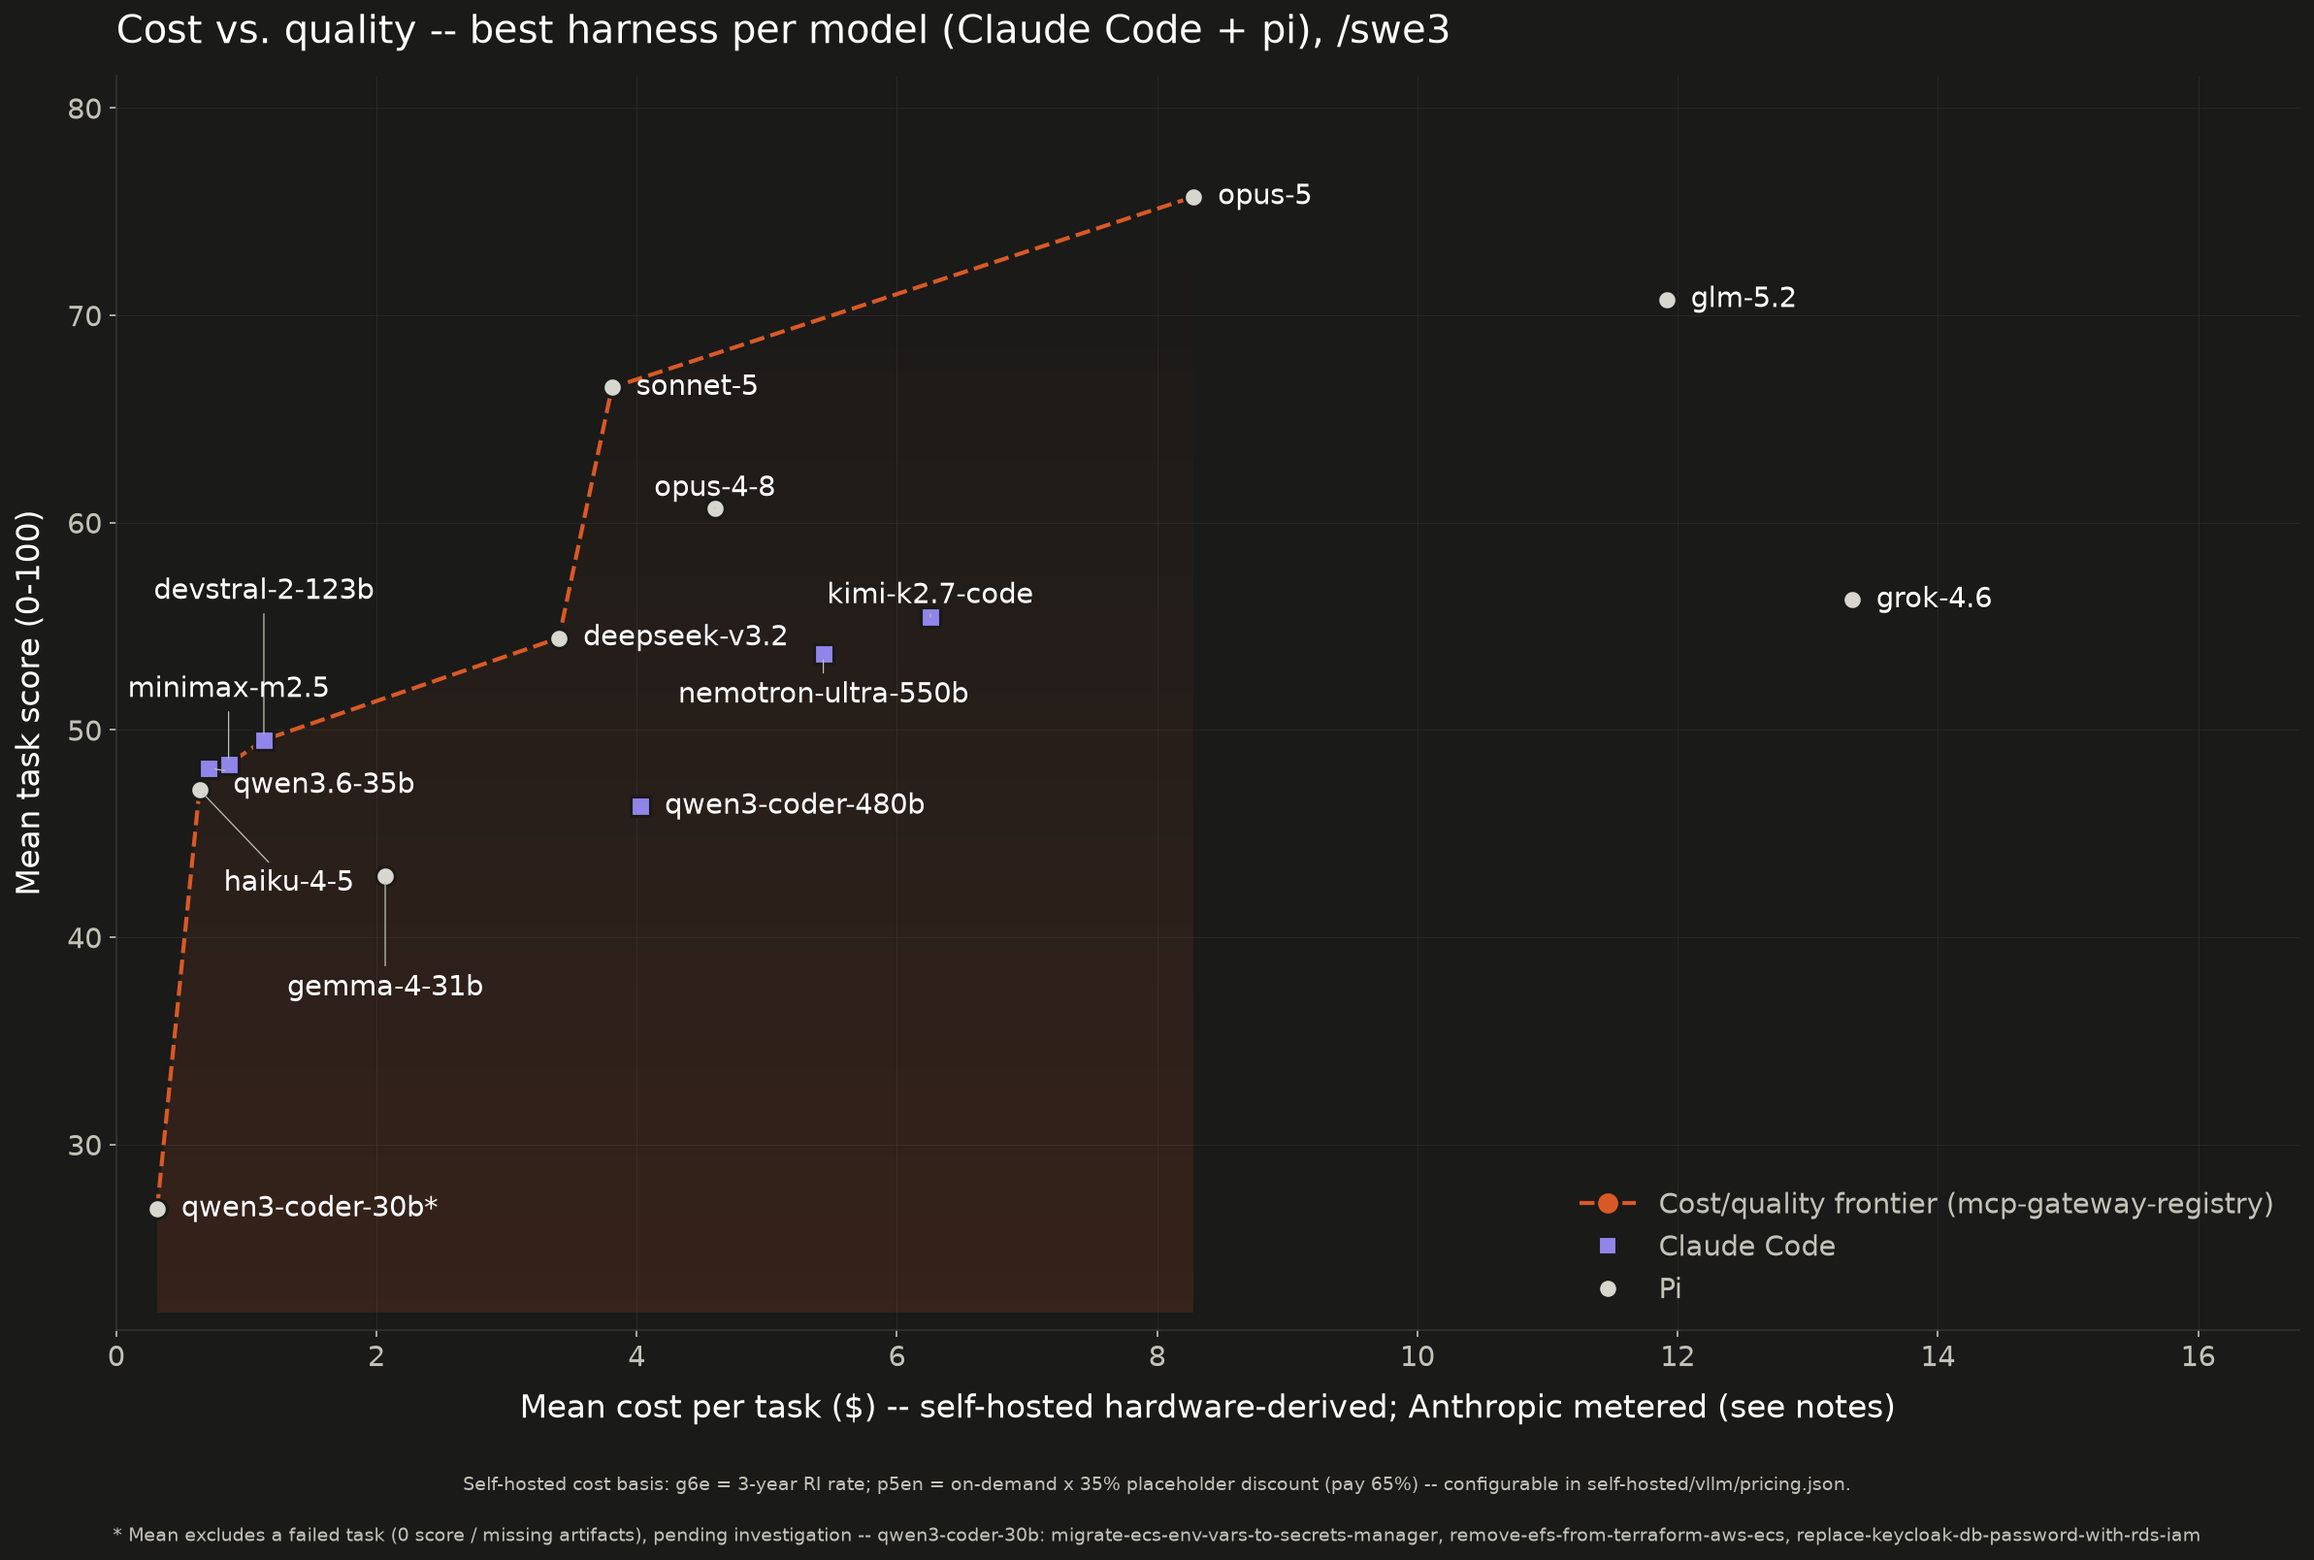
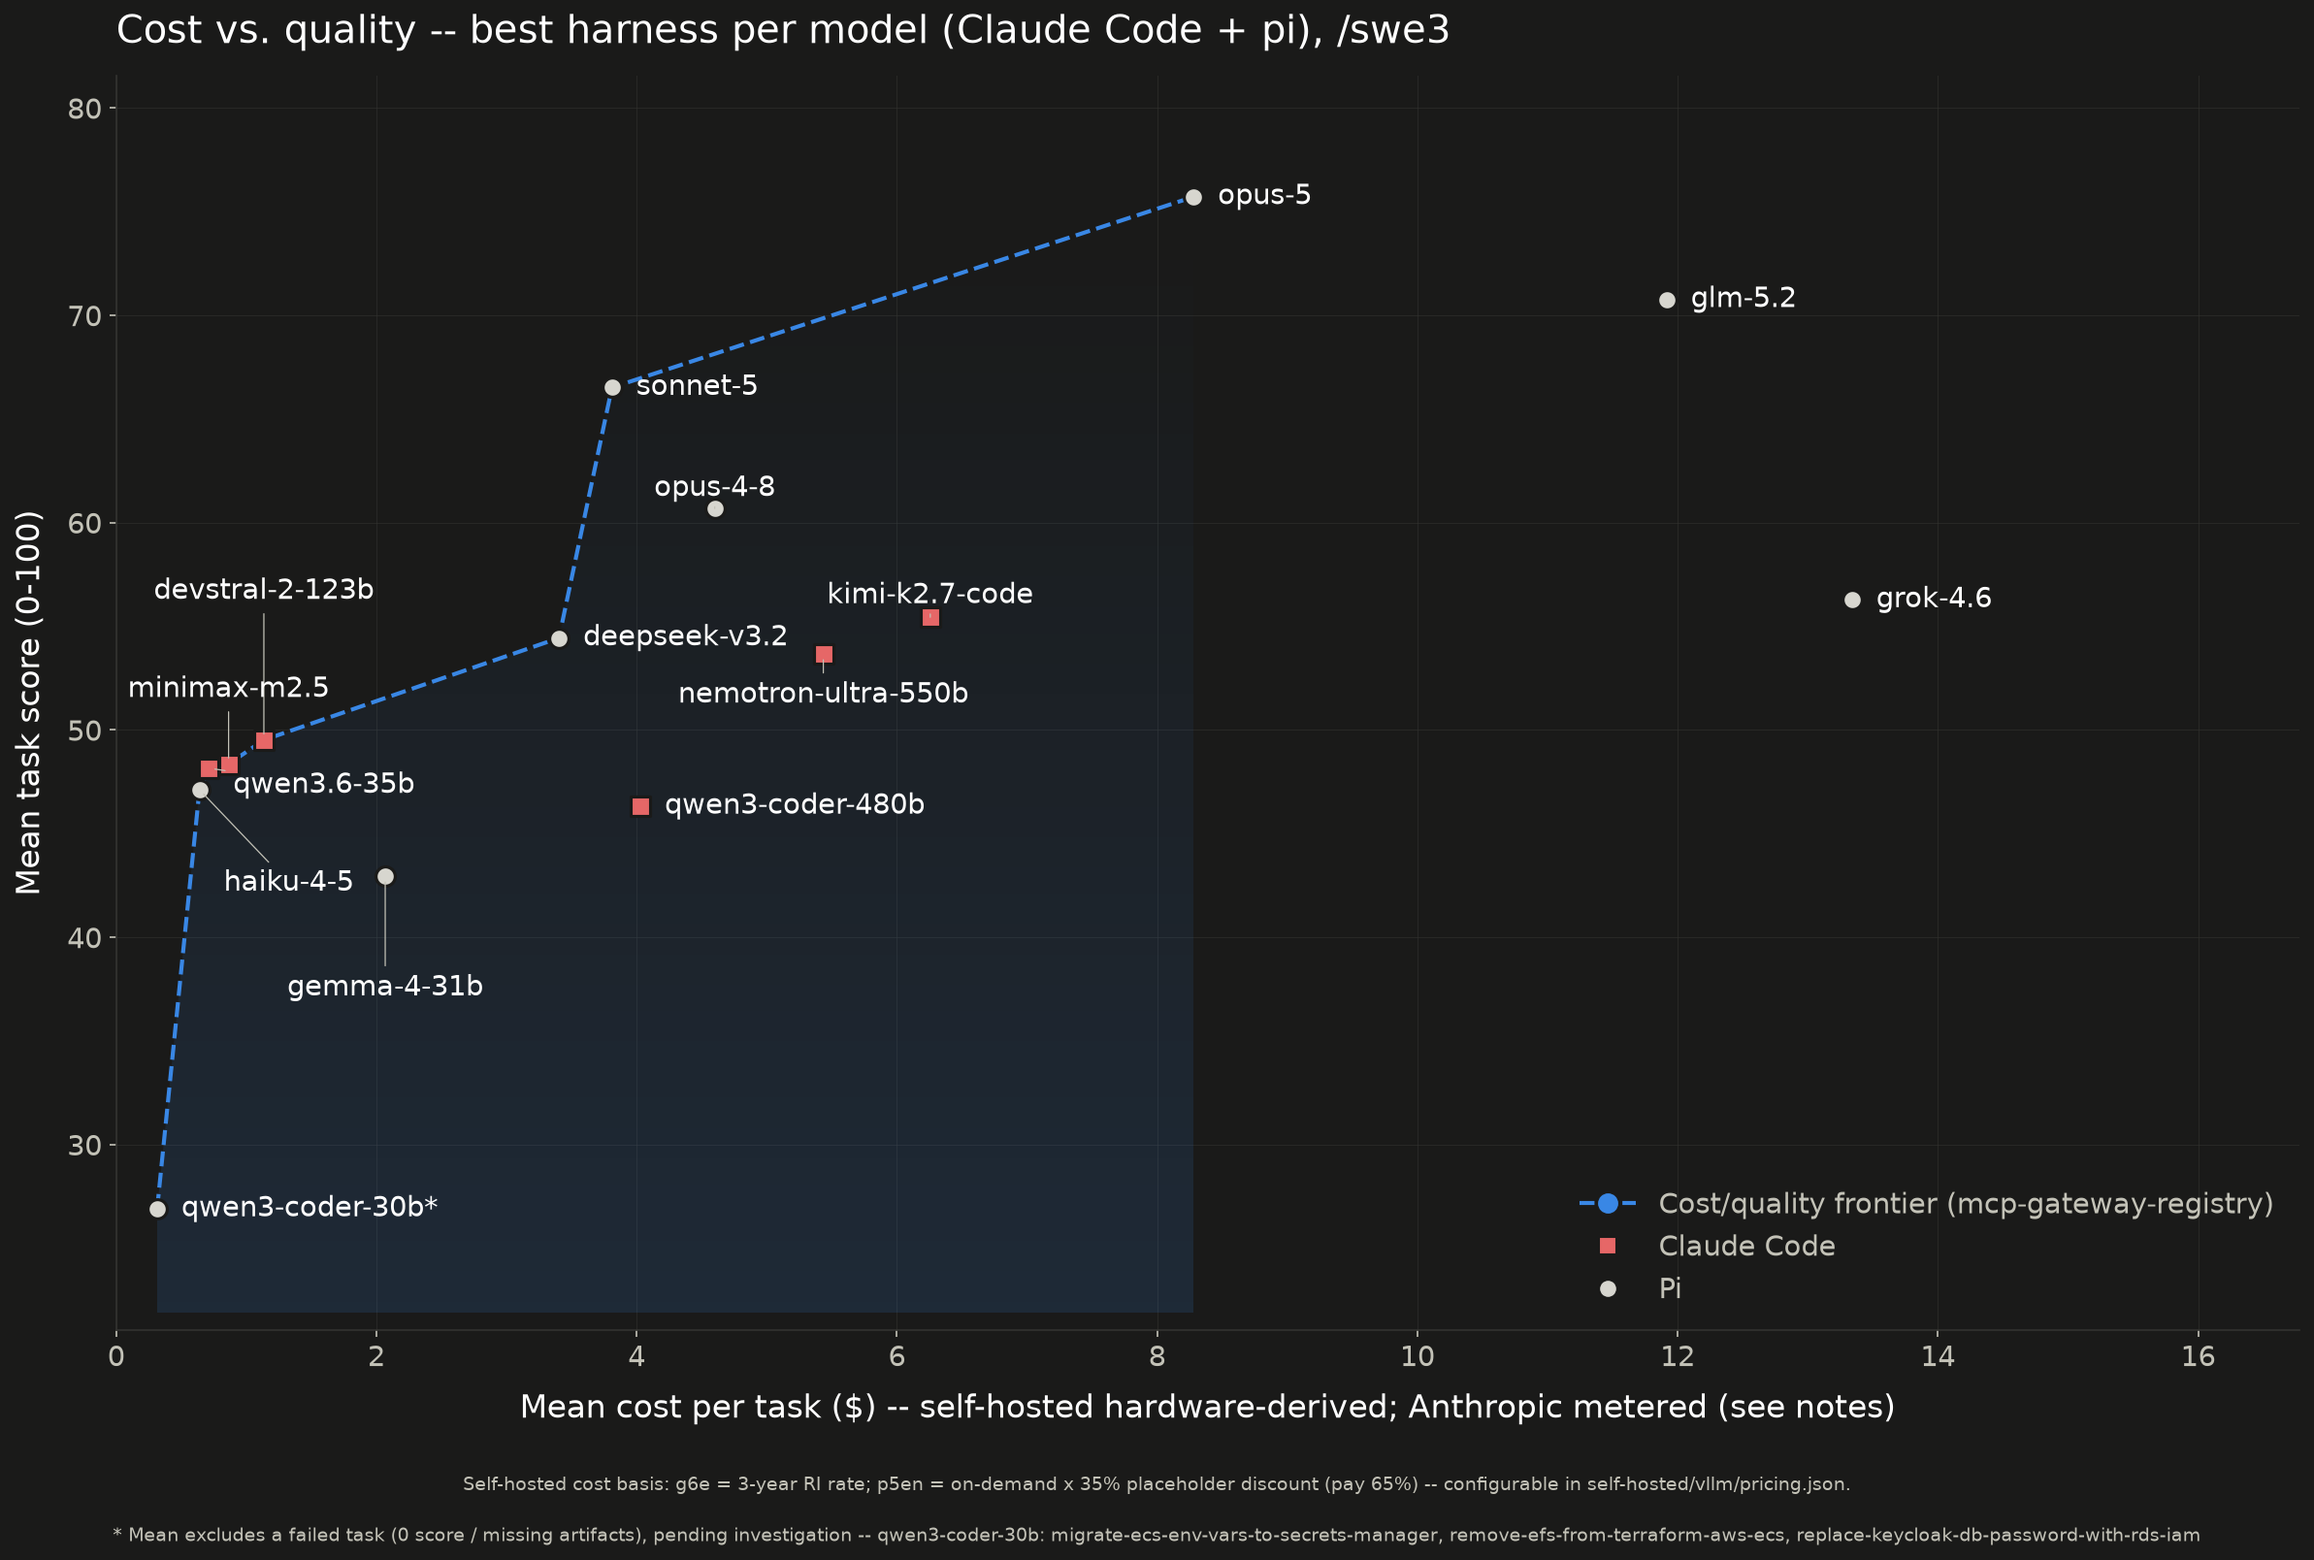
style(charts): blue frontier, red and charcoal marks on the combined chart
The frontier line and the tint under it are one colour by design -- the
fill is the line at low alpha -- so a blue fill under an orange line read
as two unrelated objects. They move together now, and this chart takes
blue for the pair: its tint covers most of the plot, and a cool region
recedes behind the marks rather than competing with them.

That frees the warm half of the palette for the marks. Claude Code takes
red, the strongest validated counterpart to the accent (dE 32.3 light /
29.0 dark to normal vision, 21.6 / 19.2 on the worst CVD axis, and the
only candidate clearing 3:1 contrast in both modes with no relief
needed); pi keeps the chart's charcoal, so one hue is added to the marks.

--fill-color is replaced by --accent-color, which moves the line and the
fill together. The old flag could only produce the mismatch above.

Changed region(s): [[0.0621, 0.7152, 0.5275, 0.8396], [0.6826, 0.7463, 0.7136, 0.7774], [0.0931, 0.4664, 0.1241, 0.4975]]

diff --git a/benchmarks/scripts/plot_cost_quality_combined.py b/benchmarks/scripts/plot_cost_quality_combined.py
@@ -79,20 +79,22 @@ HARNESS_DISPLAY = {
 # in every label, which keeps the labels short enough to sit beside their dots.
 HARNESS_MARKERS = {"claude-code": "s", "pi": "o", "kiro-cli": "^", "opencode": "D"}
 FALLBACK_MARKER = "o"
-# Colour per harness, doubling the shape encoding so the split is legible at a
-# glance and still survives colour-blindness and greyscale printing.
+# The frontier line and the tint under it are one colour (the fill is the line
+# at low alpha). This chart takes blue for that pair rather than the warm accent
+# the per-harness charts use: the tint covers most of the plot here, and a cool
+# region recedes behind the marks instead of competing with them.
 #
-# The frontier line owns the warm accent, and every warm hue fails the
-# separation floors against it (orange vs red is dE 7.1 to normal vision, vs
-# yellow 13.7 -- both under the 15 floor), so a second warm hue is not
-# available. One harness therefore takes violet, the palette slot furthest from
-# the accent (dE 37.6 light / 27.0 dark, and clear on all three CVD axes), and
-# the other keeps the chart's own warm charcoal. That adds exactly one hue to
-# the scheme rather than importing a cool pair that fights it, and the two are
-# separated by lightness as well as hue, with the marker shape behind both.
+# That frees the warm half of the palette for the marks. Colour per harness
+# doubles the shape encoding so the split reads at a glance and still survives
+# colour-blindness and greyscale printing: one harness takes red -- the
+# strongest validated counterpart to the accent (dE 32.3 light / 29.0 dark to
+# normal vision, 21.6 / 19.2 on the worst CVD axis, and the only candidate
+# clearing 3:1 contrast in BOTH modes without relief) -- and the other keeps the
+# chart's own charcoal, so exactly one hue is added to the marks.
+COMBINED_ACCENT = {"light": "#2a78d6", "dark": "#3987e5"}
 HARNESS_COLORS = {
-    "light": {"claude-code": "#4a3aa7", "pi": "#33322f"},
-    "dark": {"claude-code": "#9085e9", "pi": "#d7d6cf"},
+    "light": {"claude-code": "#e34948", "pi": "#33322f"},
+    "dark": {"claude-code": "#e66767", "pi": "#d7d6cf"},
 }
 # Vendor prefix dropped from chart labels only. Each label here already carries
 # a harness, so the model half has to earn its width, and "opus-5" is no less
@@ -443,10 +445,11 @@ def _parse_args() -> argparse.Namespace:
         help="Where to write the frontier JSON (default: docs/metrics/).",
     )
     parser.add_argument(
-        "--fill-color",
+        "--accent-color",
         default=None,
-        help="Colour of the tint under the frontier (default: the accent, so "
-        "the shaded region reads as part of the frontier line that caps it).",
+        help="Override the accent: the frontier line and the tint under it, "
+        "which are one colour by design (the fill is the line at low alpha). "
+        "Defaults to this chart's blue.",
     )
     parser.add_argument("--title", default=None, help="Override the chart title")
     parser.add_argument(
@@ -509,7 +512,7 @@ def main() -> None:
         label_weight="normal",
         marker_for=_marker_for,
         color_for=lambda point: _color_for(point, mode),
-        fill_color=args.fill_color,
+        accent_color=args.accent_color or COMBINED_ACCENT[mode],
         extra_legend=_legend_handles(harnesses, mode),
         label_backing=False,
         log_x=args.log_x,

diff --git a/benchmarks/scripts/plot_cost_quality.py b/benchmarks/scripts/plot_cost_quality.py
@@ -642,7 +642,7 @@ def _plot(
     label_weight: str = "bold",
     marker_for: Callable[[ModelPoint], str] | None = None,
     color_for: Callable[[ModelPoint], str] | None = None,
-    fill_color: str | None = None,
+    accent_color: str | None = None,
     extra_legend: list | None = None,
     label_backing: bool = True,
     log_x: bool = False,
@@ -671,9 +671,10 @@ def _plot(
             otherwise -- i.e. colour encodes rank. Supplying it moves colour
             onto the entity (the harness), leaving the frontier to be read from
             the line that connects its points.
-        fill_color: Colour of the tint under the frontier. Defaults to the
-            accent, which keeps the shaded region visibly part of the frontier
-            line that caps it.
+        accent_color: Override the accent -- the frontier line AND the tint
+            under it. They are one colour by design: the fill is the line at
+            low alpha, which is what makes the shaded region read as belonging
+            to the frontier rather than as a second, unexplained object.
         extra_legend: Optional extra legend handles, e.g. the marker key that
             says which shape is which harness.
         label_backing: Draw the surface-coloured plate behind each label. It
@@ -688,7 +689,9 @@ def _plot(
             leader line runs (near) vertically instead of diagonally. Reads as
             a tick up to the label rather than a wire across the plot.
     """
-    theme = _THEME[mode]
+    theme = dict(_THEME[mode])
+    if accent_color:
+        theme["accent"] = accent_color
     fig, ax = plt.subplots(figsize=(16, 10), dpi=150)
     fig.patch.set_facecolor(theme["surface"])
     ax.set_facecolor(theme["surface"])
@@ -736,7 +739,7 @@ def _plot(
         x_min, x_max = min(fx), max(fx)
         y_min, y_max = y_bottom, max(fy)
         gradient = np.linspace(1, 0, 256).reshape(256, 1)
-        accent_rgba = to_rgba(fill_color or theme["accent"])
+        accent_rgba = to_rgba(theme["accent"])
         ax.imshow(
             gradient,
             extent=[x_min, x_max, y_min, y_max],
